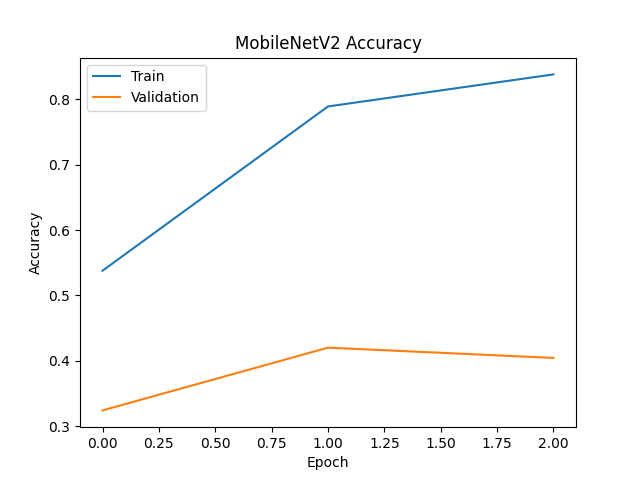
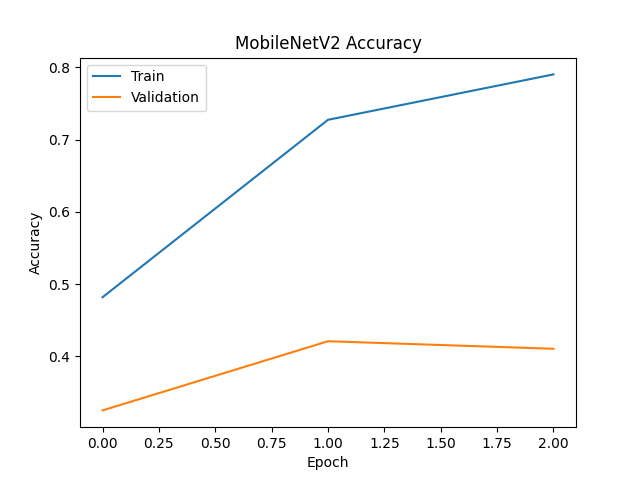
Train again on mobilenetv2 with and without contours

diff --git a/tools/tools_dataset.py b/tools/tools_dataset.py
@@ -8,22 +8,20 @@ Tools Python file to deal with the dataset.
 
 ### Python imports ###
 
-from token import NUMBER
 import cv2
 import os
 import numpy as np
 from tqdm import tqdm
-import tensorflow as tf
-import random as rd
 
 ### Local imports ###
 
 from tools.tools_constants import (
     PATH_TRAIN_DATASET,
+    PATH_VALID_DATASET,
     PATH_TEST_DATASET,
     LIST_LETTERS_STATIC,
     IMAGE_SIZE,
-    BATCH_SIZE,
+    TRAIN_MODE,
     BOOL_PREPROCESSING_CONTOURS
 )
 from tools.tools_preprocessing import (
@@ -35,70 +33,67 @@ from tools.tools_preprocessing import (
 #################
 
 # Create a train and validation set image per image without going through tensorflow dataset
-def create_train_val_set_image_per_image():
+def create_train_val_test_set():
     train_images = []
     train_labels = []
     val_images = []
     val_labels = []
+    test_images = []
+    test_labels = []
 
-    for image_folder in tqdm(os.listdir(PATH_TRAIN_DATASET)):
-        for image_file in os.listdir(PATH_TRAIN_DATASET + image_folder + "/"):
-            type_image = image_folder
-            path_image = PATH_TRAIN_DATASET + image_folder + "/" + image_file
+    if TRAIN_MODE:
+        list_modes = [
+            ["train", PATH_TRAIN_DATASET],
+            ["validation", PATH_VALID_DATASET],
+            ["test", PATH_TEST_DATASET]
+        ]
+    else:
+        list_modes = [
+            ["test", PATH_TEST_DATASET]
+        ]
+
+    for element in list_modes:
+        mode = element[0]
+        path_mode = element[1]
+        for image_file in tqdm(os.listdir(path_mode)):
+            type_image = image_file[0]
+            path_image = path_mode + image_file
 
             if type_image in LIST_LETTERS_STATIC:
                 image = cv2.imread(path_image)
-                type_image = [0] * len(LIST_LETTERS_STATIC)
-                type_image[LIST_LETTERS_STATIC.index(image_folder)] = 1
+                label_image = [0] * len(LIST_LETTERS_STATIC)
+                label_image[LIST_LETTERS_STATIC.index(type_image)] = 1
 
                 # Get the RGB colors
                 image = cv2.cvtColor(image, cv2.COLOR_BGR2RGB)
 
                 # Crop the image
                 image = cv2.resize(image, IMAGE_SIZE)
+                new_image = image
 
                 # Convert the image to gray
                 if BOOL_PREPROCESSING_CONTOURS:
                     image = cv2_extract_contours(image)
                     
-                new_image = np.zeros((224, 224, 3))
-                for i in range(3):
-                    new_image[:,:,i] = image
+                    new_image = np.zeros((224, 224, 3))
+                    for i in range(3):
+                        new_image[:,:,i] = image
 
-                if rd.random() < 0.8:
-                    train_images.append(new_image)
-                    train_labels.append(type_image)
-                else:
-                    val_images.append(new_image)
-                    val_labels.append(type_image)
+            if mode == "train":
+                train_images.append(new_image)
+                train_labels.append(label_image)
+            elif mode == "validation":
+                val_images.append(new_image)
+                val_labels.append(label_image)
+            elif mode == "test":
+                test_images.append(new_image)
+                test_labels.append(label_image)
 
     train_images = np.array(train_images, dtype="float") / 255.0
     train_labels = np.array(train_labels)
     val_images = np.array(val_images, dtype="float") / 255.0
     val_labels = np.array(val_labels)
-
-    return train_images, train_labels, val_images, val_labels
-
-def create_test_set():
-    test_images = []
-    test_labels = []
-
-    for image_file in tqdm(os.listdir(PATH_TEST_DATASET)):
-        type_image = image_file[0]
-
-        if type_image in LIST_LETTERS_STATIC:
-            image = cv2.imread(PATH_TEST_DATASET + image_file)
-
-            # Get the RGB colors
-            image = cv2.cvtColor(image, cv2.COLOR_BGR2RGB)
-
-            # Crop the image
-            image = cv2.resize(image, IMAGE_SIZE)
-
-            test_images.append(image)
-            test_labels.append(type_image)
-
     test_images = np.array(test_images, dtype="float") / 255.0
     test_labels = np.array(test_labels)
 
-    return test_images, test_labels
+    return train_images, train_labels, val_images, val_labels, test_images, test_labels

diff --git a/tools/tools_metrics.py b/tools/tools_metrics.py
@@ -18,8 +18,7 @@ import seaborn as sns
 from tools.tools_constants import (
     LIST_LETTERS_STATIC,
     PATH_RESULTS,
-    PATH_MODELS,
-    NUMBER_EPOCHS
+    PATH_MODELS
 )
 
 #################
@@ -35,13 +34,14 @@ def analyse_predictions(predictions, number_elements_to_take=3):
 
         list_predicted_letters = [LIST_LETTERS_STATIC[id] for id in first_elements]
         predicted_labels.append(list_predicted_letters)
-    
     return predicted_labels
 
 def compute_accuracy(predicted_labels, test_labels):
     score = 0
     for counter in range(len(test_labels)):
-        type_image = test_labels[counter]
+        label_image = test_labels[counter]
+        index_truth = np.argwhere(label_image == 1)[0][0]
+        type_image = LIST_LETTERS_STATIC[index_truth]
         if type_image in predicted_labels[counter]:
             score += 1
     accuracy = score / len(test_labels)
@@ -51,7 +51,9 @@ def compute_accuracy(predicted_labels, test_labels):
     return accuracy
 
 def display_confusion_matrix(predicted_labels, test_labels, path_to_save):
-    confusion_matrix = metrics.confusion_matrix(test_labels, predicted_labels)
+    test_types = [LIST_LETTERS_STATIC[
+        np.argwhere(label_image == 1)[0][0]] for label_image in test_labels]
+    confusion_matrix = metrics.confusion_matrix(test_types, predicted_labels)
 
     cm_display = confusion_matrix.astype('float') / confusion_matrix.sum(axis=1)[:, np.newaxis]
     fig, ax = plt.subplots(figsize=(15, 10))

diff --git a/main.py b/main.py
@@ -22,8 +22,7 @@ from tools.tools_constants import (
     BOOL_PREPROCESSING_CONTOURS
 )
 from tools.tools_dataset import (
-    create_test_set,
-    create_train_val_set_image_per_image
+    create_train_val_test_set
 )
 from tools.tools_metrics import (
     analyse_predictions,
@@ -40,16 +39,15 @@ from tools.tools_models import (
 ### Main code ###
 #################
 
-isExist = os.path.exists(PATH_RESULTS + 'mobilenetv2/')
+isExist = os.path.exists(PATH_RESULTS + MODEL_NAME + "/")
 if not isExist:
-    os.makedirs(PATH_RESULTS + 'mobilenetv2/')
+    os.makedirs(PATH_RESULTS + MODEL_NAME + "/")
 
 ### Data loading and preprocessing ###
 
 print("Load dataset and preprocess images")
 
-train_images, train_labels, validation_images, validation_labels = create_train_val_set_image_per_image()
-test_images, test_labels = create_test_set()
+train_images, train_labels, validation_images, validation_labels, test_images, test_labels = create_train_val_test_set()
 
 ### Training ###
 

diff --git a/tools/tools_constants.py b/tools/tools_constants.py
@@ -12,10 +12,10 @@ PATH_RESULTS = "results/"
 
 PATH_RAW_TRAIN_DATASET = PATH_DATASET + "asl_alphabet_train/"
 PATH_RAW_SHORT_TRAIN_DATASET = PATH_DATASET + "asl_alphabet_train_short/"
+PATH_RAW_TEST_DATASET = PATH_DATASET + "asl_alphabet_test/"
 PATH_TRAIN_DATASET = PATH_DATASET + "train/"
 PATH_VALID_DATASET = PATH_DATASET + "valid/"
 PATH_TEST_DATASET = PATH_DATASET + "test/"
-PATH_RAW_TEST_DATASET = PATH_DATASET + "asl_alphabet_test/"
 
 #################
 ### Constants ###
@@ -30,6 +30,6 @@ IMAGE_SIZE = (224, 224)
 BATCH_SIZE = 32
 
 MODEL_NAME = "mobilenetv2" # mobilenetv2 cnn
-TRAIN_MODE = True
+TRAIN_MODE = False
 NUMBER_EPOCHS = 3
-BOOL_PREPROCESSING_CONTOURS = True
+BOOL_PREPROCESSING_CONTOURS = False
